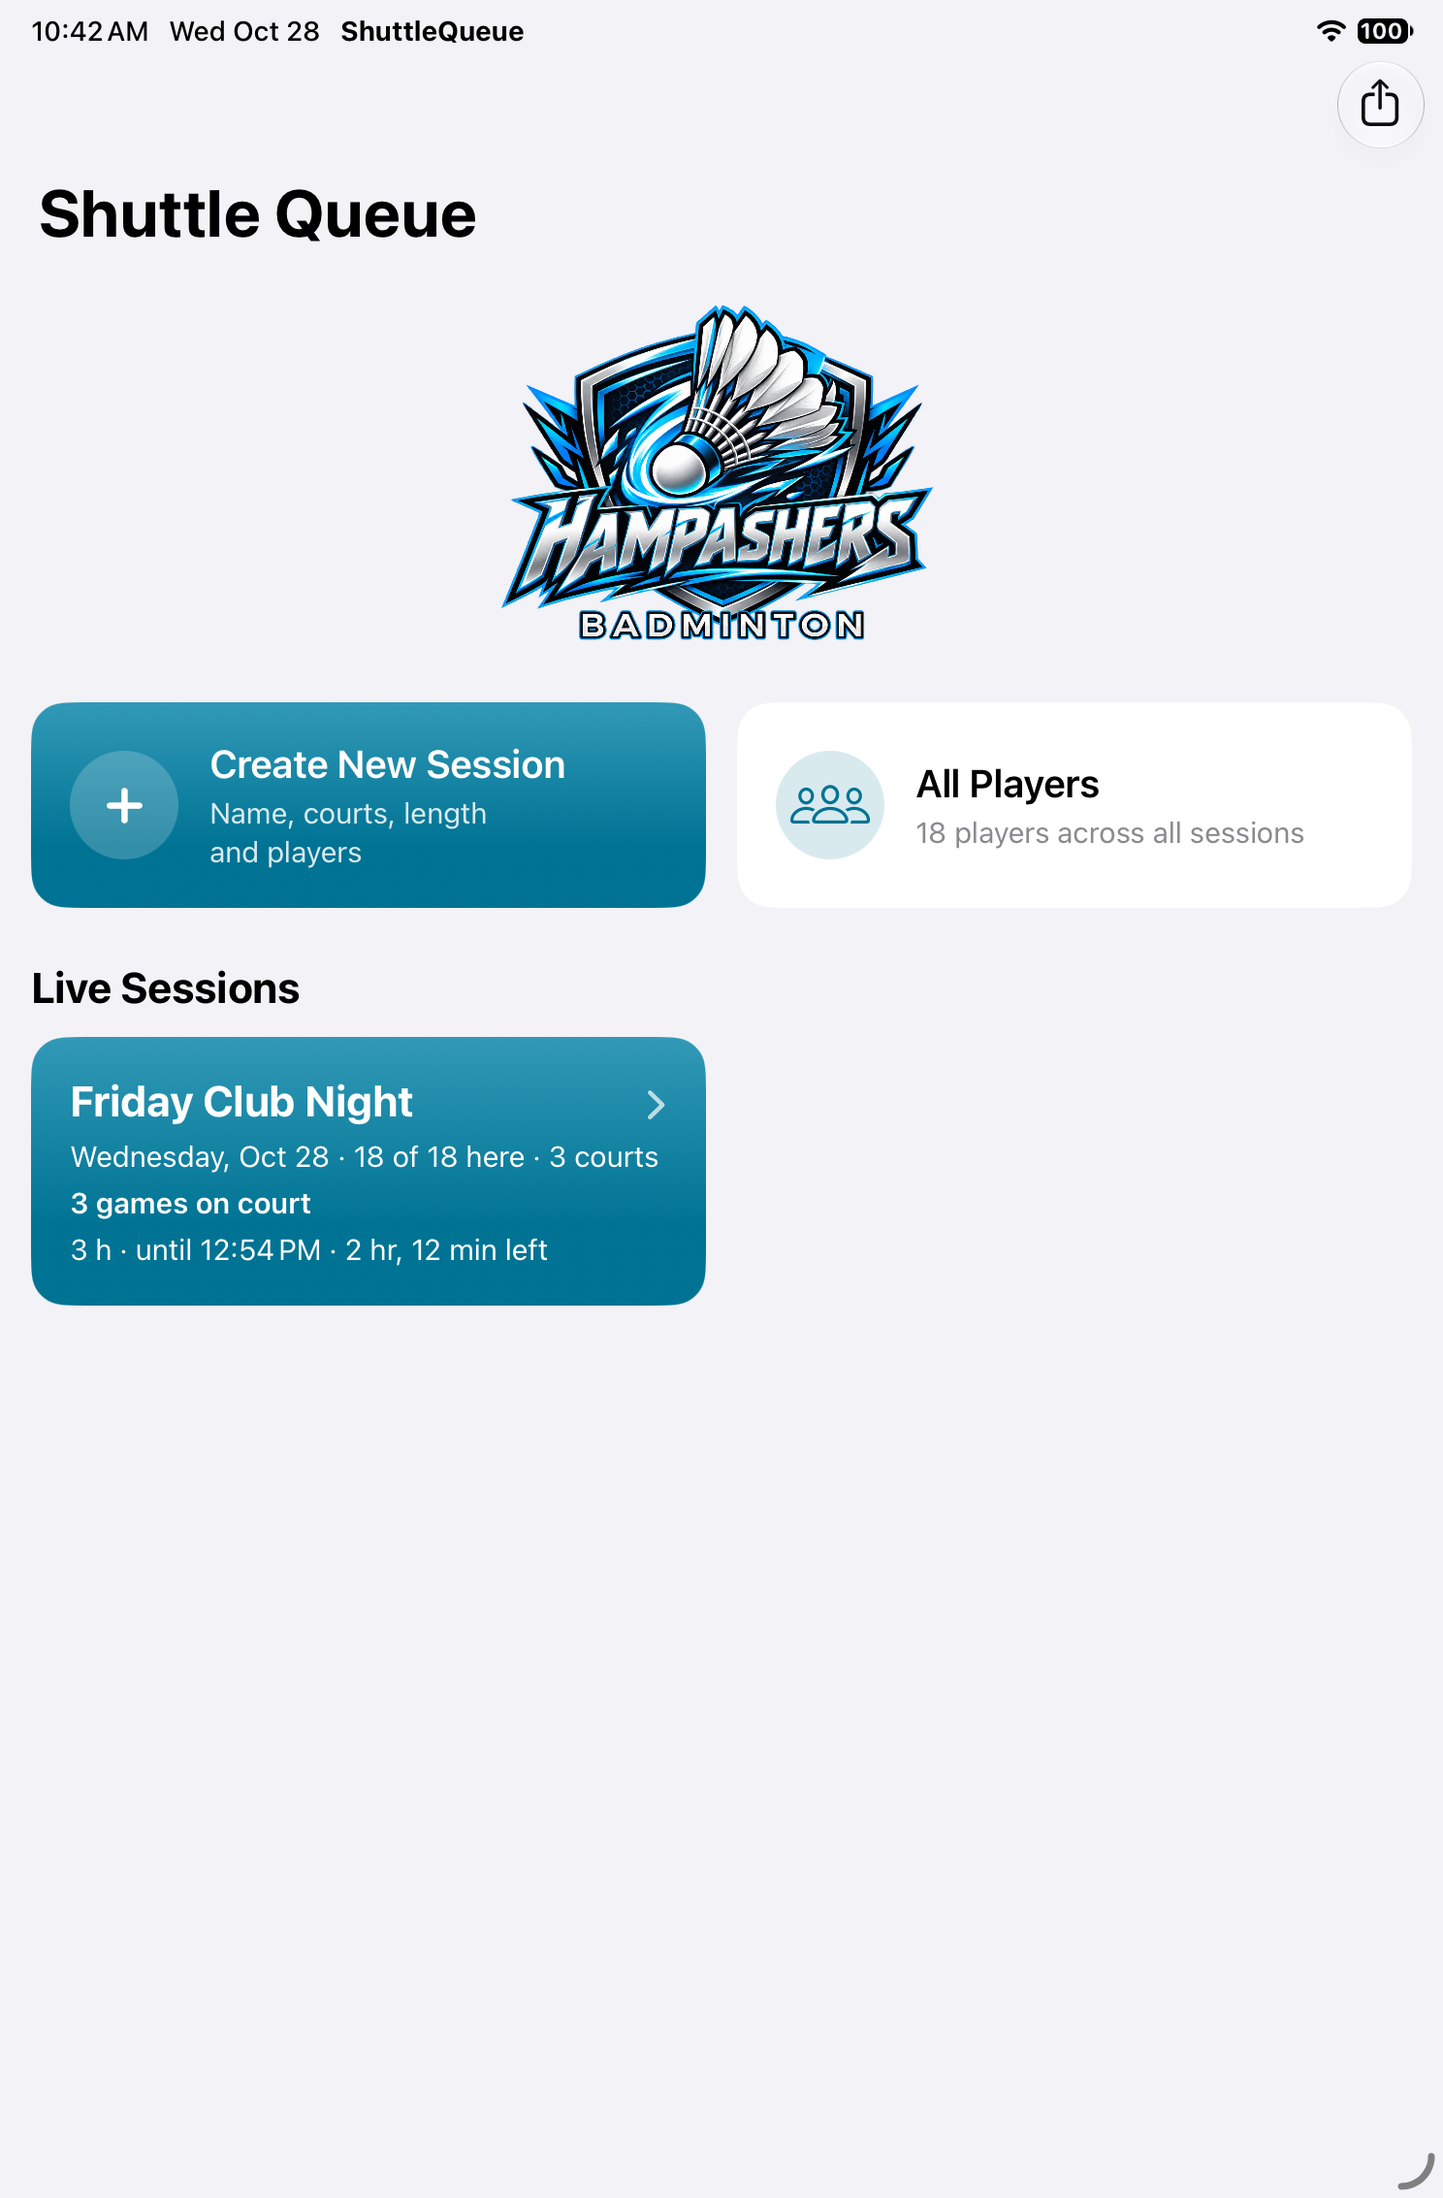
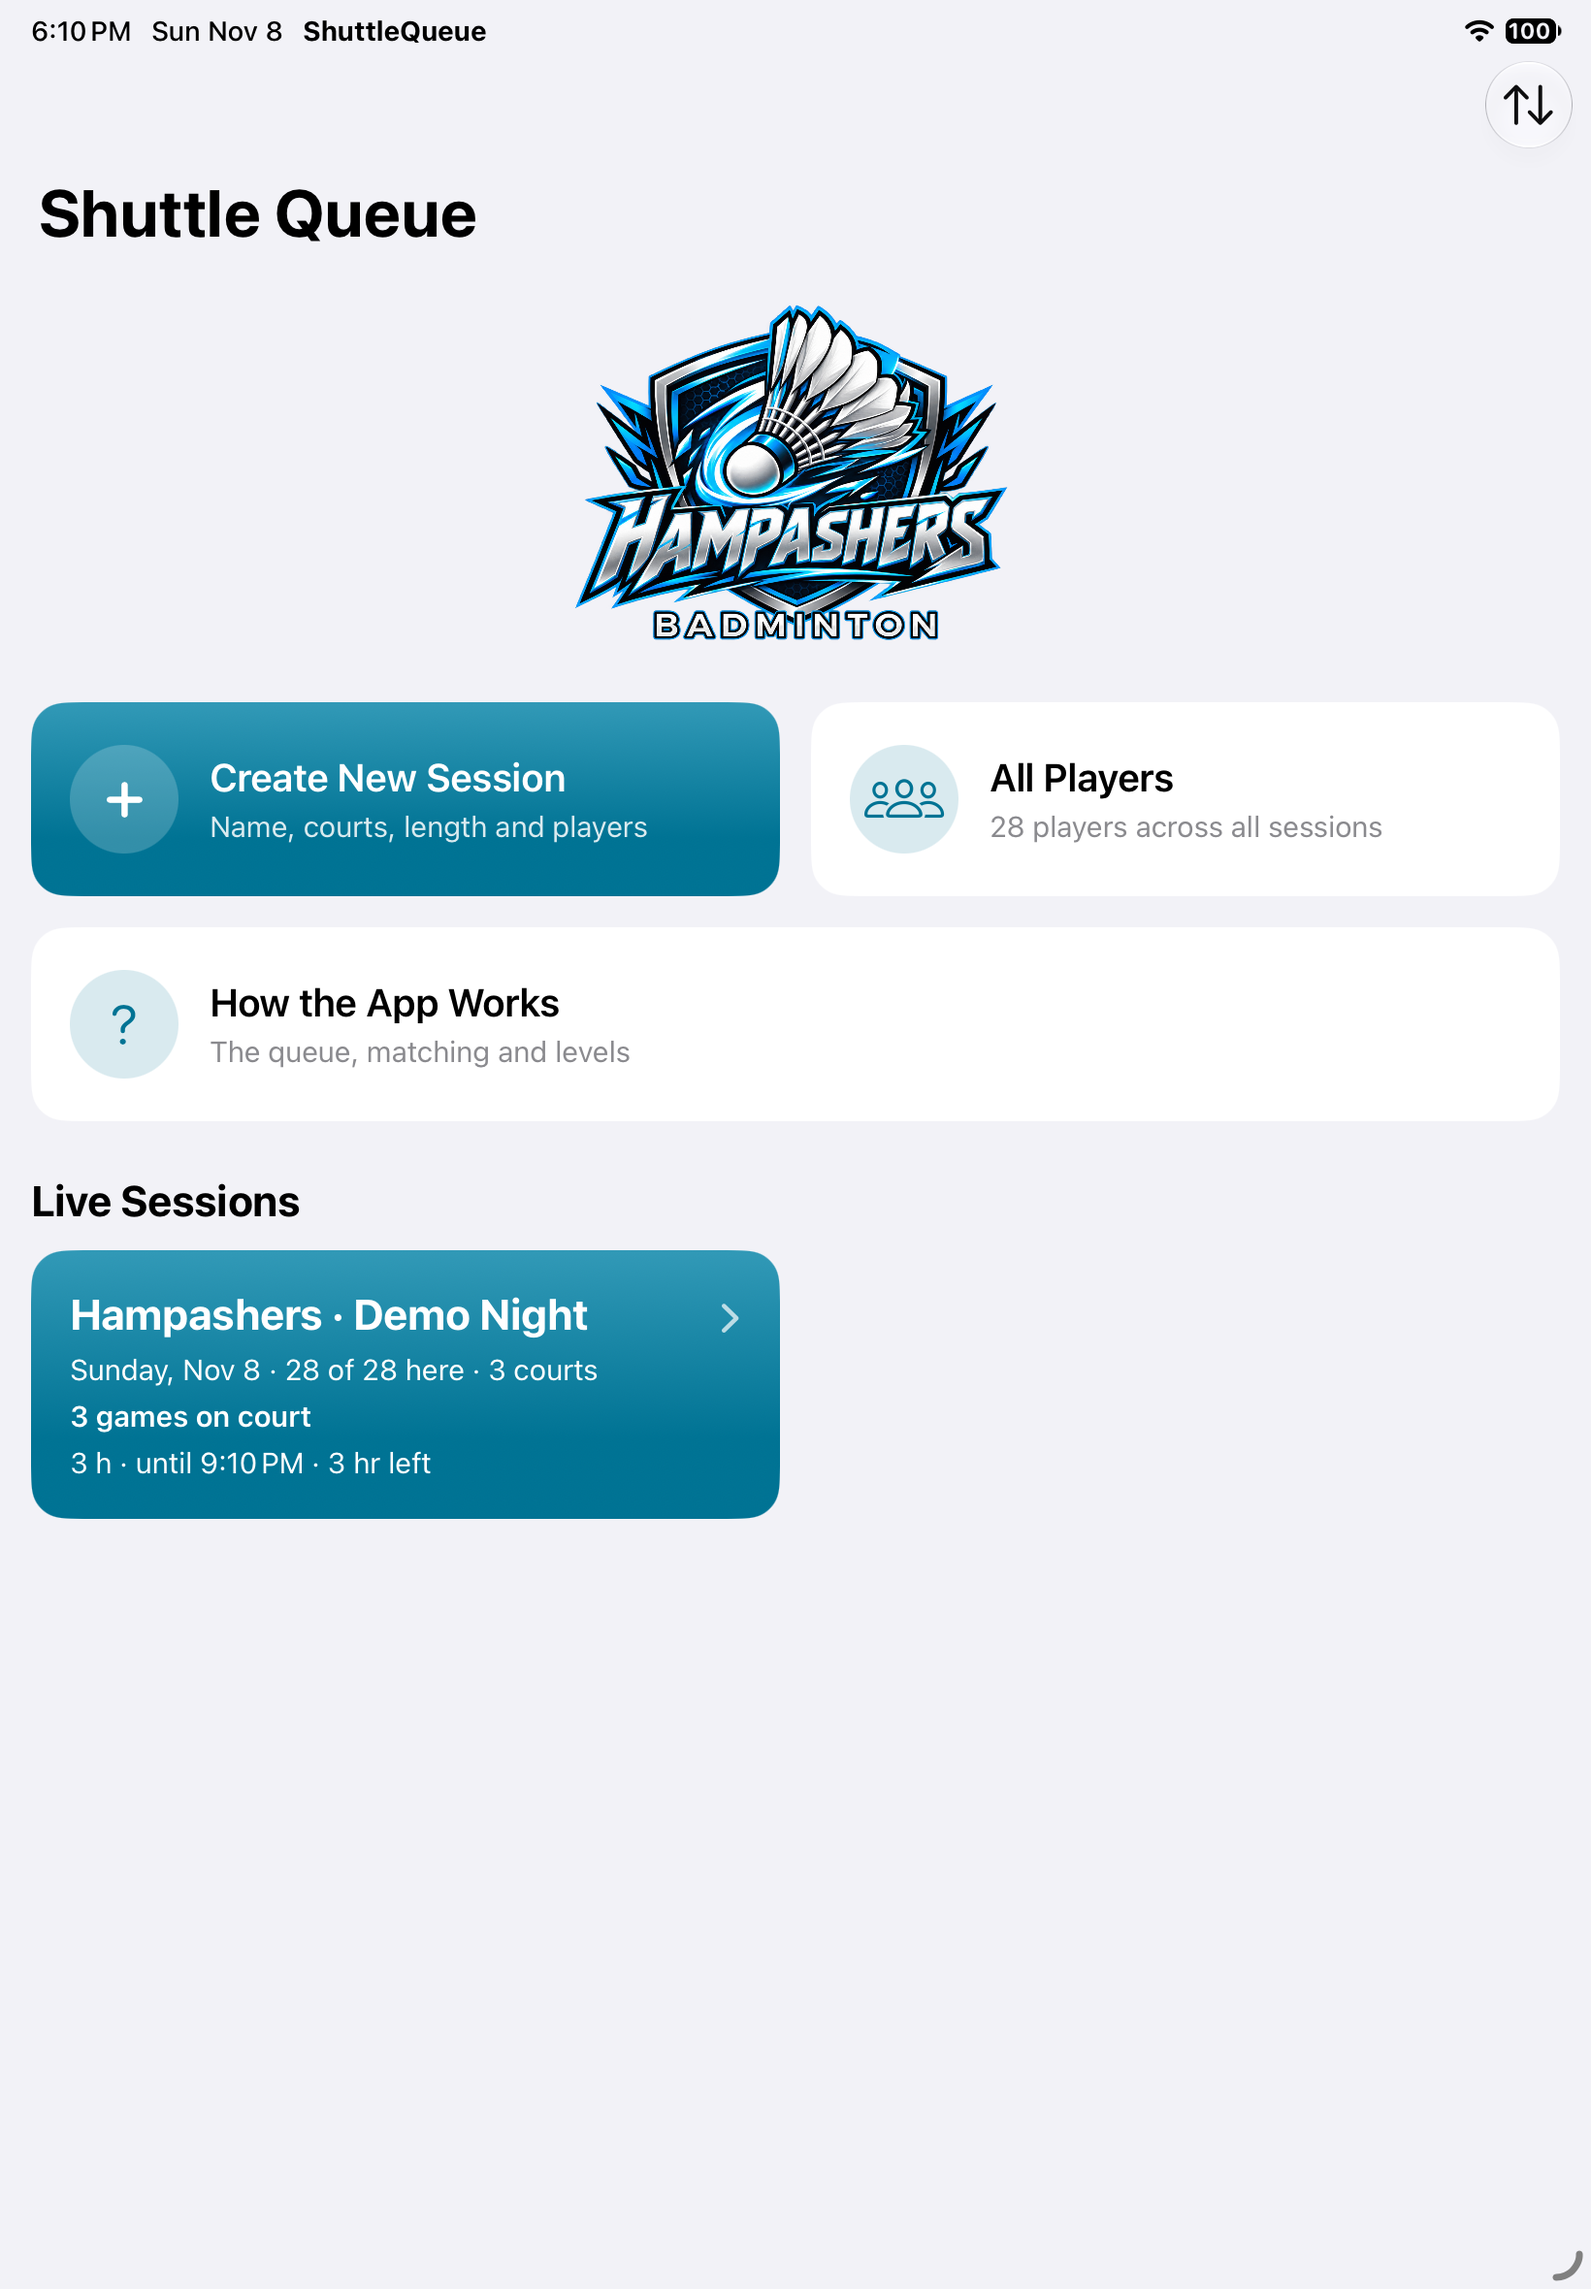
Refresh repository screenshots and app description

diff --git a/README.md b/README.md
@@ -6,11 +6,11 @@ Run a badminton club night without juggling a paper queue. Shuttle Queue manages
 
 ## Screenshots
 
-Actual app screens using a fictional demo roster. The web app adapts to phones and tablets; the native app is designed for iPad.
+Current iPad app screens with a fictional demo roster. Players have seven organiser-set levels, from Low beginner through Pro. The browser version also adapts to phones and tablets.
 
-| Native iPad app | Web courts | Queue matching settings |
+| Home | Live courts and queue | Player levels |
 | --- | --- | --- |
-| <img src="docs/screenshots/ipad-home.png" width="320" alt="Shuttle Queue on iPad showing session creation, All Players, and a live three-court demo session"> | <img src="docs/screenshots/web-courts.jpg" width="260" alt="Web dashboard showing three doubles games in progress with demo players"> | <img src="docs/screenshots/web-matching.jpg" width="260" alt="Web settings with Auto, Equal Skill, and Balanced Skill matching choices"> |
+| <img src="docs/screenshots/ipad-home.png" width="320" alt="Shuttle Queue Home with session creation, All Players, How the App Works, and a demo club night"> | <img src="docs/screenshots/ipad-courts.png" width="320" alt="Three doubles courts playing with the Auto queue and named player levels"> | <img src="docs/screenshots/ipad-levels.png" width="320" alt="All Players showing fictional players across the seven fixed levels"> |
 
 ## Features
 
@@ -37,7 +37,7 @@ See [RULES.md](RULES.md) for the complete behavior and tunable values.
 
 ### Web
 
-Open **[hampashers.netlify.app](https://hampashers.netlify.app)** in a current browser. Choose courts, add players, select a matching mode, and start ready games. Finish each game to record its winner and return players to the queue.
+Open **[hampashers.netlify.app](https://hampashers.netlify.app)** in a current browser. Choose courts, add players and their levels, and start ready games with Auto matching. Finish each game to record its winner and return players to the queue.
 
 Use **Settings → Export Data** to back up a browser's sessions. **Import Data** adds exported sessions and replaces sessions with the same ID. Each browser and device has its own data; iPad and web do not sync automatically. The iPad's JSON export can be imported into the hosted web app.
 
@@ -77,7 +77,7 @@ Free Apple development signing expires after seven days. The app shows its signi
 
 | Location | Purpose |
 | --- | --- |
-| `ShuttleQueue/ShuttleQueueApp.swift` | Models, persistence, queue matching, ratings, self-checks, and simulation |
+| `ShuttleQueue/ShuttleQueueApp.swift` | Models, persistence, queue matching, fixed levels, self-checks, and simulation |
 | `ShuttleQueue/ContentView.swift` | Native session, court, player, and settings UI |
 | `ShuttleQueue/Tournament.swift` | Tournament model, matching, and views |
 | `web/index.html` | Standalone browser app and matching engine |
